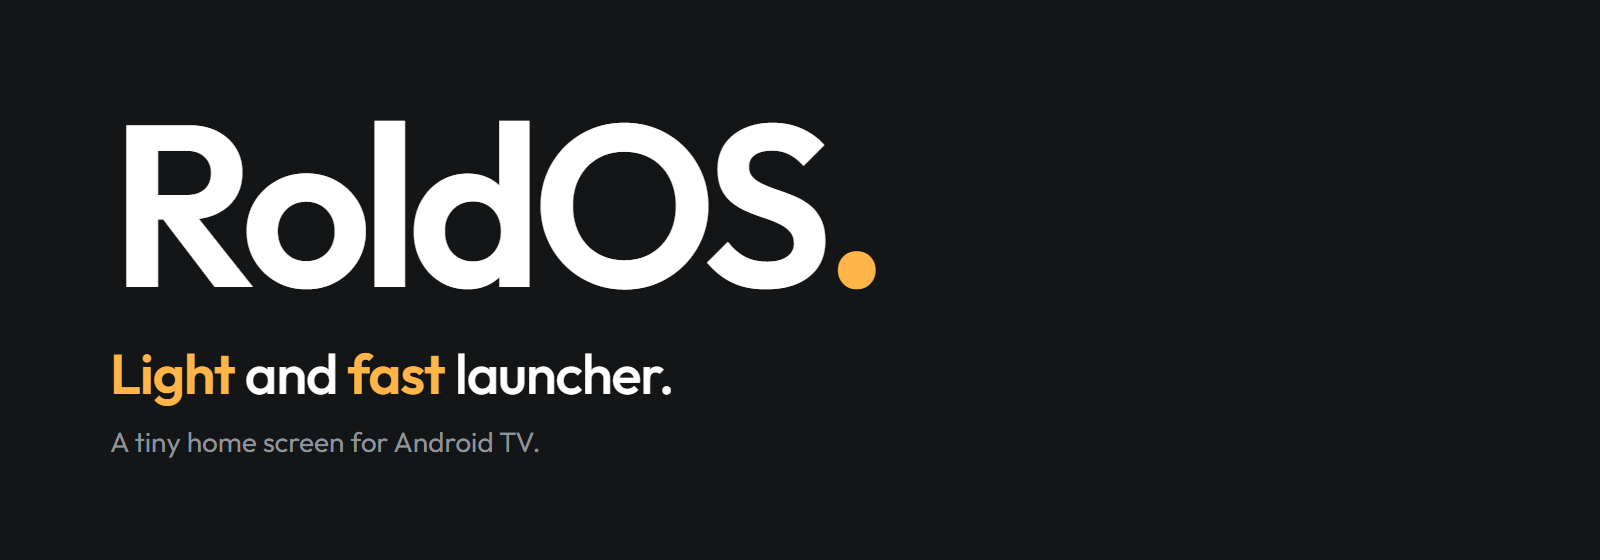
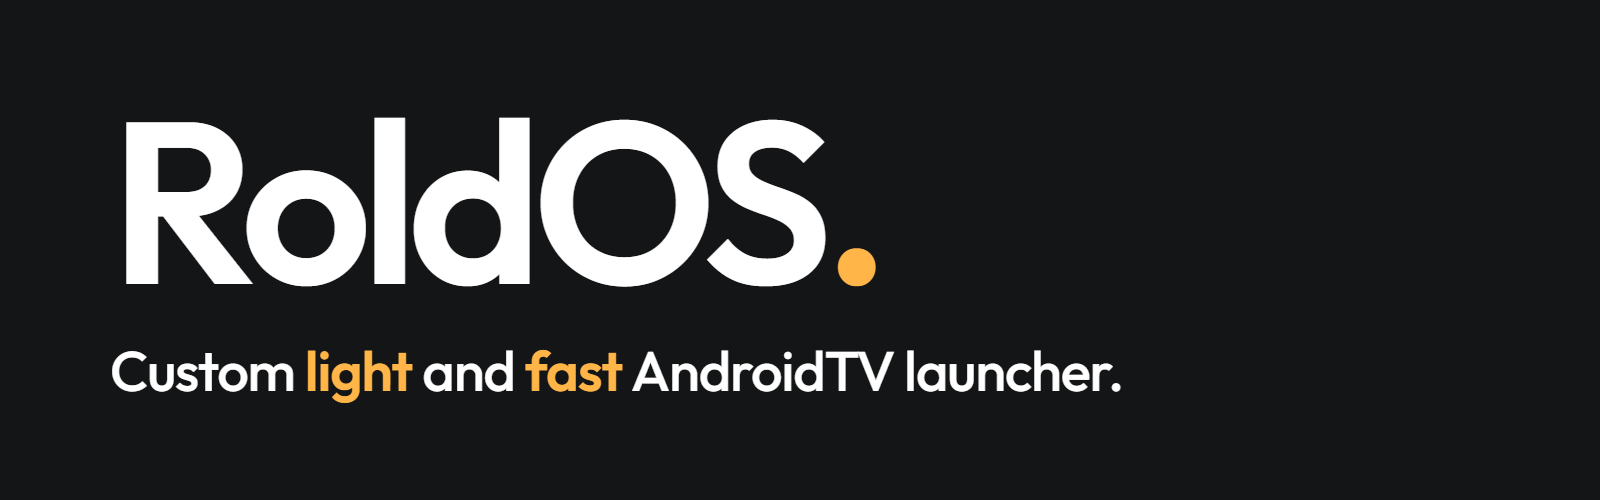
README hero: "Custom light and fast AndroidTV launcher." only
Claude-Session: https://claude.ai/code/session_01Lj4wVPVGi7bqhehWZvuH4R

Changed region(s): [[0.0625, 0.21, 0.5625, 0.57], [0.0625, 0.63, 0.7188, 0.81], [0.2188, 0.21, 0.25, 0.24]]

diff --git a/docs/promo/hero.html b/docs/promo/hero.html
@@ -3,7 +3,7 @@
 <link rel="stylesheet" href="https://fonts.googleapis.com/css2?family=Outfit:wght@400;500;600;800&display=swap">
 <link rel="stylesheet" href="promo.css">
 <style>
-  body { width: 1600px; height: 560px; display: flex; align-items: center; }
+  body { width: 1600px; height: 500px; display: flex; align-items: center; }
   .copy { margin-left: 110px; }
   .wm { font-size: 230px; }
   .tag { font: 500 56px/1.15 var(--display); letter-spacing: -0.02em; margin-top: 36px; }
@@ -13,7 +13,6 @@
 <body>
   <div class="copy">
     <div class="wm">RoldOS<i>.</i></div>
-    <div class="tag"><b>Light</b> and <b>fast</b> launcher.</div>
-    <div class="sub">A tiny home screen for Android TV.</div>
+    <div class="tag">Custom <b>light</b> and <b>fast</b> AndroidTV launcher.</div>
   </div>
 </body></html>

diff --git a/README.md b/README.md
@@ -1,5 +1,5 @@
 <p align="center">
-  <img src="docs/images/hero.png" alt="RoldOS. Light and fast launcher. A tiny home screen for Android TV." width="100%">
+  <img src="docs/images/hero.png" alt="RoldOS. Custom light and fast AndroidTV launcher." width="100%">
 </p>
 
 <h2 align="center">A home screen that gets out of the way.</h2>
